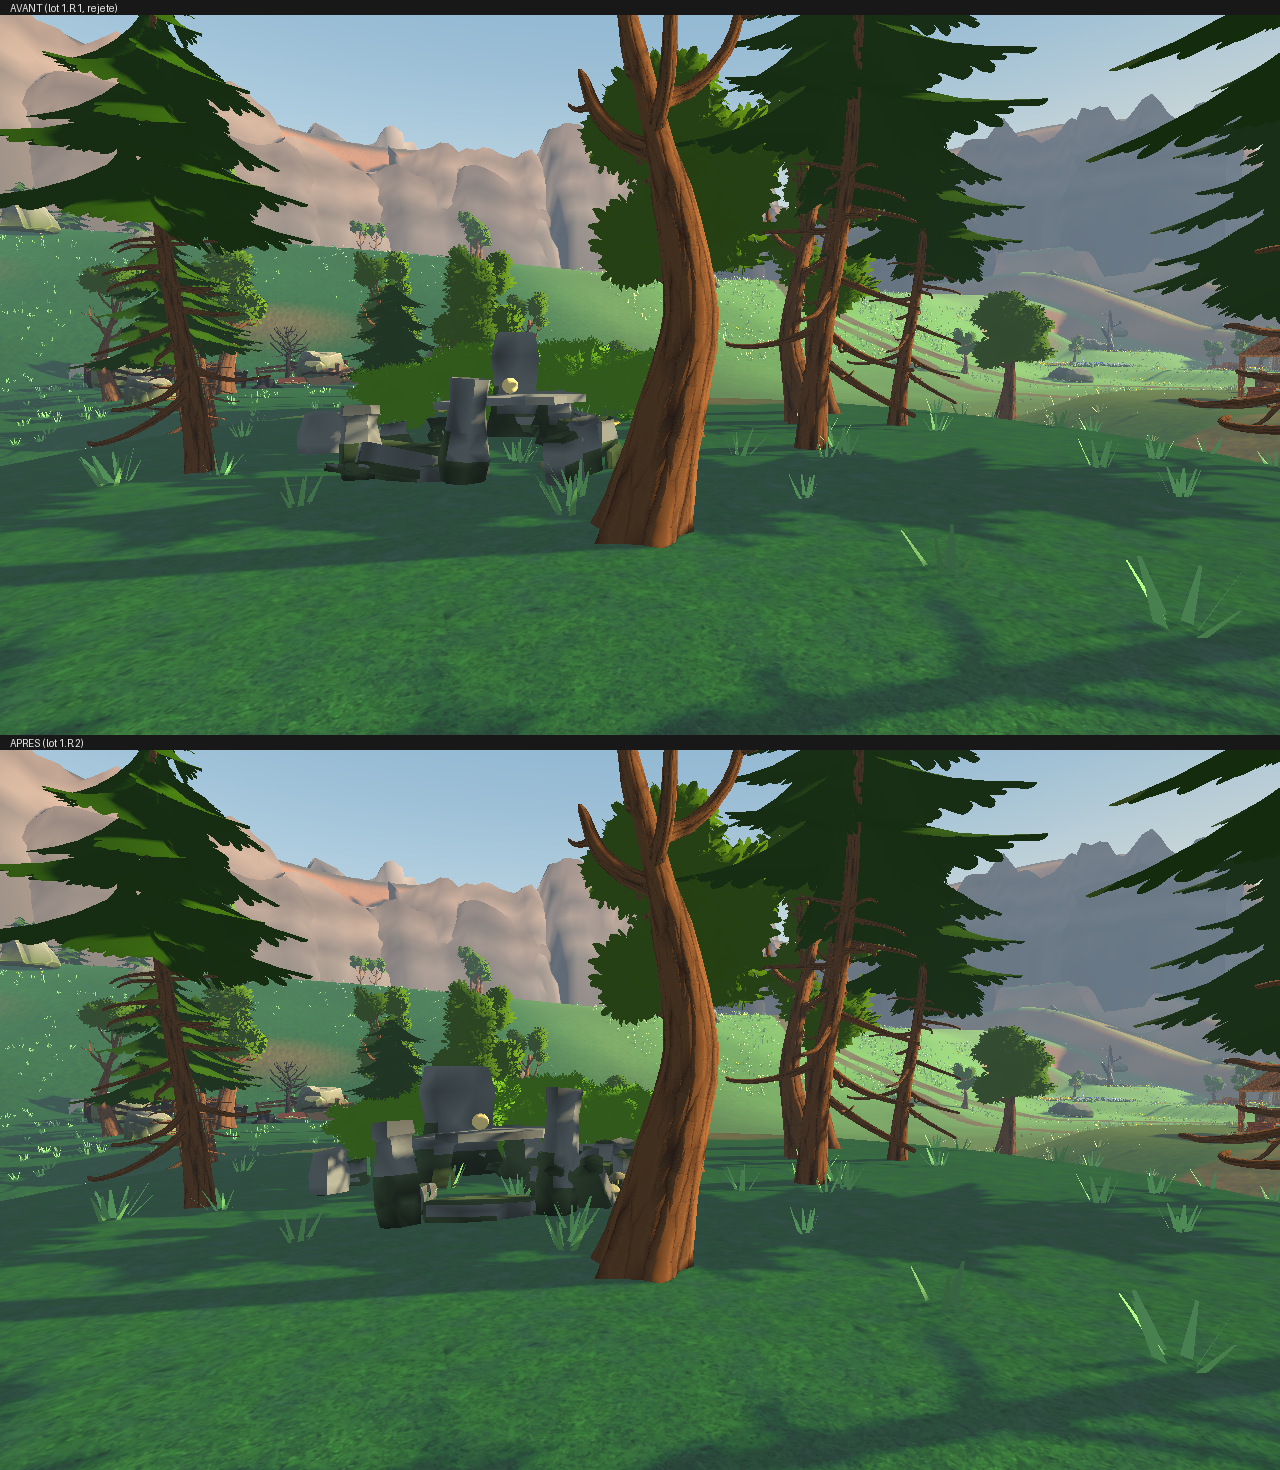
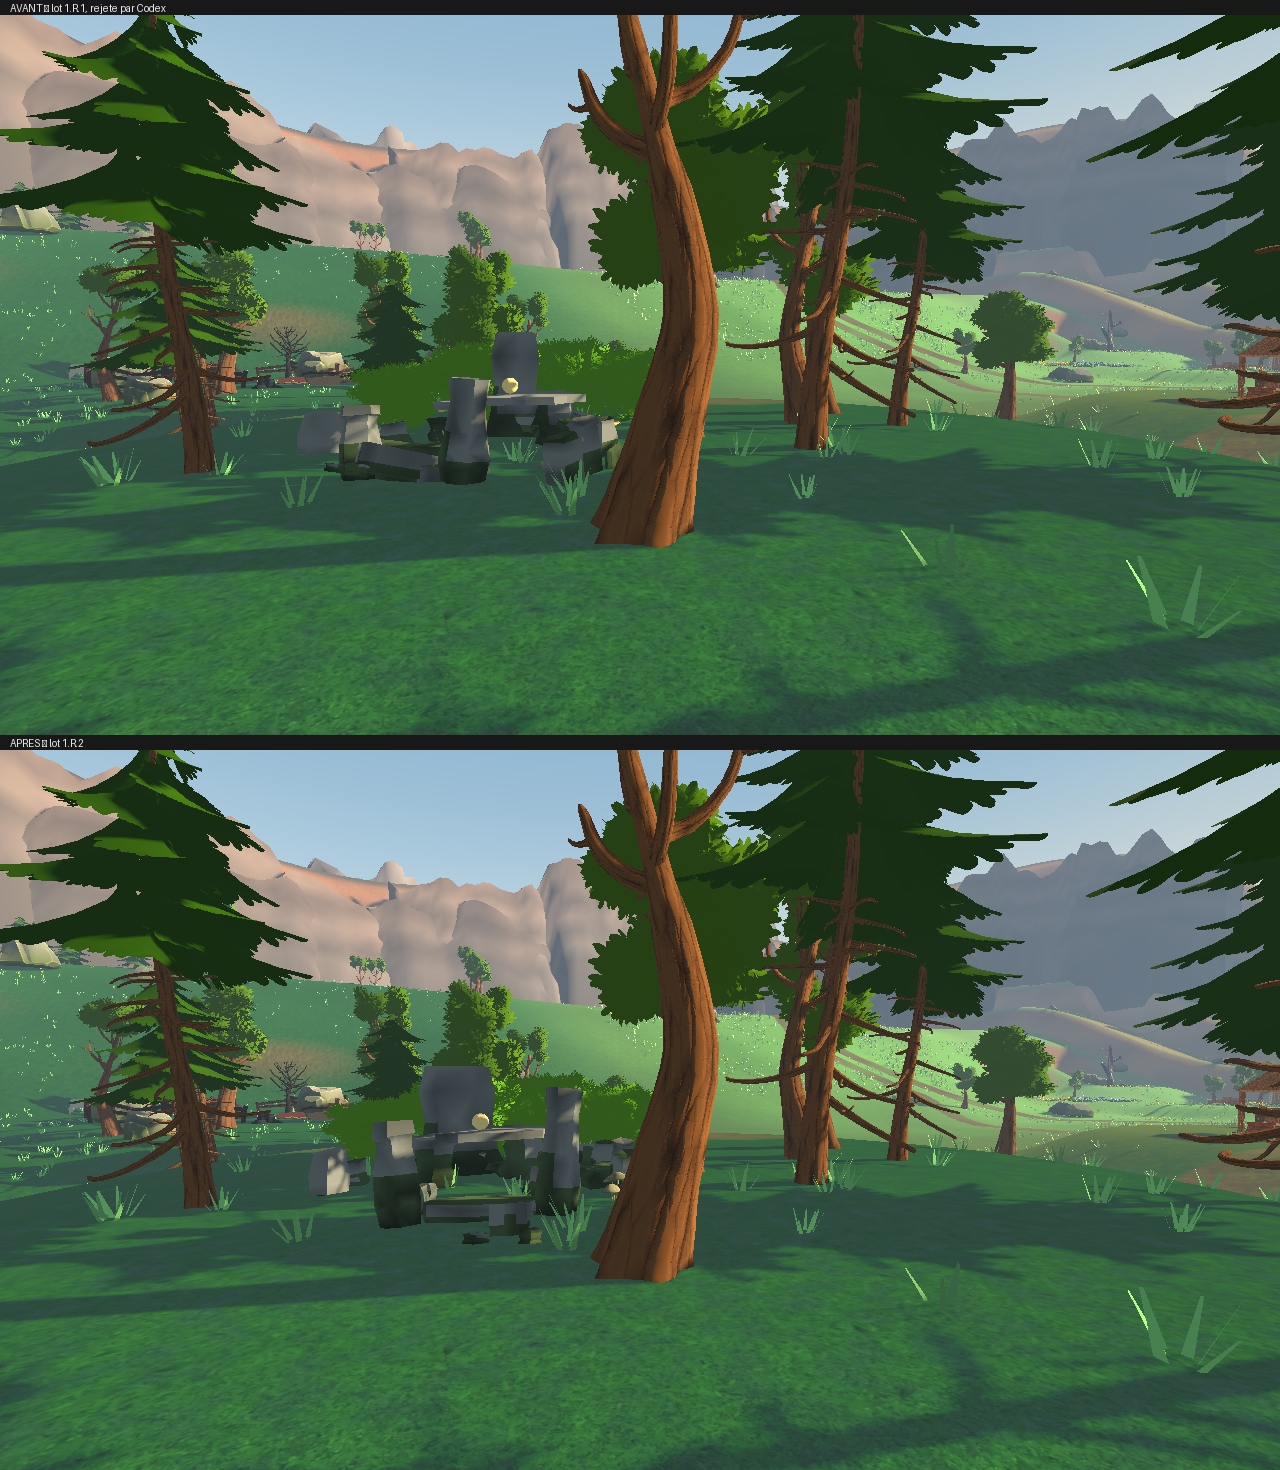
preuve(sanctuaire): sonde et R-D3 rejoues sur le lieu LIVRE, planche et rapport a jour
Le linteau a bouge apres les deux mesures precedentes : une mesure prise avant
le dernier changement ne prouve rien sur le lieu livre. Les deux sont donc
rejouees sur c00cc7b.

- sonde : PASS inchange — fenetre 1,31 m, capsule 100 pour cent aux deux sens ;
- R-D3 : PASS, pire paire 0,3983 (waterfall_cave) pour un seuil a 0,4912,
  soit 0,093 de marge sur l'exigence seuil moins 0,010 ;
- le rapport decrit ce qui est VISIBLE sur it4 en repondant aux trois
  exigences une par une, et designe lui-meme son point faible : l'axe reste le
  maillon tenu, parce que les bordures sont dans l'ombre du couvert.

diff --git a/evidence/world_v2/v2_3_b/lot1r2/sanctuaire/RAPPORT_SANCTUAIRE.md b/evidence/world_v2/v2_3_b/lot1r2/sanctuaire/RAPPORT_SANCTUAIRE.md
@@ -67,6 +67,11 @@ Le seuil masquait le cœur au lieu de le présenter.
    le sujet qu'il présentait. Il tombe au pied du montant ouest, x 593.
 7. *(après `it2`)* **La pierre couchée cesse de barrer la nef** et la borde à
    l'ouest ; le dallage passe à deux dalles.
+8. *(après `it3`)* **Le linteau passe DEVANT le seuil**, en travers de
+   l'approche. Quatrième position pour cette pièce, et la première qui sorte
+   du conflit au lieu d'arbitrer entre ses deux termes : à x 486 / y 440, soit
+   59 px sous le cœur, elle ne peut rien masquer, et elle rend au seuil la
+   barre qui le fait lire comme une porte.
 
 ## Preuves
 
@@ -75,8 +80,10 @@ Le seuil masquait le cœur au lieu de le présenter.
 | Sonde AVANT | `sondes/probe_AVANT_ROUGE.log` | **FAIL**, fenêtre 0,89 m |
 | Sonde APRÈS | `sondes/probe_APRES.log` | **PASS**, fenêtre **1,31 m** |
 | Capsule réelle, entrée puis sortie | idem, §2c (contrôle AJOUTÉ) | **100 %** / **100 %** |
-| R-D3 | `verdict_d3_sanctuaire.json` | **PASS**, pire paire 0,389 / seuil 0,4912 |
-| Vues gelées | `it3/` (+ `it1/`, `it2/` pour l'historique) | copie exacte des trois plans |
+| R-D3 | `verdict_d3_sanctuaire.json` | **PASS**, pire paire **0,3983** / seuil 0,4912 |
+| Vues gelées | **`it4/`** (+ `it1/`…`it3/`, l'historique des quatre passes) | copie exacte des trois plans |
+| Invisibilité depuis la route | `controle_route/` | aucune pierre visible |
+| Suites du dépôt | `tests/` | 11 + 5 réussis, 0 échoué |
 | Avant/après | `planche_avant_apres_joueur.png` | |
 
 ## Contrôles faits en plus, et ce qu'ils disent
@@ -98,10 +105,35 @@ saturés, et ce résidu est du sol et des troncs, pas de la maçonnerie. Le
 décalage de +0,45 m du rideau, qui n'était qu'un calcul de ligne de vue, est
 donc confirmé par une capture.
 
+## Ce qui est VISIBLE sur la vue joueur finale (`it4/forest_shrine_joueur.png`)
+
+Description, pas verdict — le verdict appartient à Codex et à Istvan.
+
+- **L'arbre ne sépare plus.** Le lieu s'étend de x 334 à 615 ; le tronc gelé
+  occupe 661-717. Il n'y a plus aucun chevauchement, et le tronc joue le
+  montant droit du cadre au lieu de couper le sujet en deux.
+- **Ouverture d'entrée** — VISIBLE : une barre de pierre claire en travers au
+  premier plan bas (le linteau), et deux pierres dressées de part et d'autre,
+  franchement inégales (1,65 m à gauche du cadre, 1,26 m à droite).
+- **Axe d'approche** — VISIBLE MAIS FAIBLE : la progression se lit par le
+  linteau, puis la marche, puis les deux bordures qui bordent la travée, puis
+  le cœur. Les bordures restent le maillon discret : basses, sombres, et sous
+  le couvert. C'est l'élément que je signale comme le moins concluant.
+- **Cœur rituel** — VISIBLE, et c'est l'élément le plus lisible des trois :
+  dalle horizontale claire, dossier vertical de 1,60 m de large derrière, et
+  l'offrande, seul point chaud de l'image.
+- **Les trois sont dans la même image**, et la travée entre les montants est
+  désormais dégagée : le cœur s'y voit de bout en bout.
+
 ## Ce qui reste NON VÉRIFIÉ
 
 - **Le verdict artistique.** Il appartient à Codex et à Istvan. Ce document
   décrit ce qui est visible, pas ce qui est réussi.
+- **La lisibilité de l'axe** est le point faible que je désigne moi-même :
+  les bordures dépassent enfin de l'herbe, mais elles restent dans l'ombre du
+  couvert et leur ligne est ténue. Si le verdict rouvre le lieu, c'est là
+  qu'il faut porter la passe suivante — et probablement par la VALEUR (ce qui
+  se lit ici, ce sont les surfaces éclairées) plutôt que par la forme.
 - **La franchissabilité humaine du seuil** : aucune manette, aucun écran ici.
 - **`tools/validate_fast.sh`** n'a pas été rejoué en entier sur cet arbre : il
   appartient à l'intégration du lead, qui seule voit les trois voies réunies.

diff --git a/evidence/world_v2/v2_3_b/lot1r2/sanctuaire/silhouettes/LISEZ_MOI.md b/evidence/world_v2/v2_3_b/lot1r2/sanctuaire/silhouettes/LISEZ_MOI.md
@@ -10,7 +10,9 @@ LOCAL — jamais le chemin par défaut, qui écraserait le verdict canonique du
 lead.
 
 - Seuils employés : ceux qui sont gelés, 0,4931 / 0,4912 / 0,5458 (30/80/160 m).
-- Verdict : **PASS**, `signalees: 0`, `repo_dirty: false`, commit `4cb18d9`.
-- Pire paire du sanctuaire : **IoU 0,389** contre `stone_bridge`. Le seuil le
-  plus bas vaut 0,4912 ; l'exigence du lot est « seuil − 0,010 », soit 0,4812.
-  Marge réelle : **0,092**.
+- Verdict : **PASS**, `signalees: 0`, `repo_dirty: false`, commit `c00cc7b`.
+- Pire paire du sanctuaire : **IoU 0,3983** contre `waterfall_cave`. Le seuil
+  le plus bas vaut 0,4912 ; l'exigence du lot est « seuil − 0,010 », soit
+  0,4812. Marge réelle : **0,093**.
+- Rejoué une seconde fois après le déplacement du linteau, sur `c00cc7b` : la
+  silhouette avait changé, le verdict ne pouvait pas rester celui d'avant.

diff --git a/evidence/world_v2/v2_3_b/lot1r2/sanctuaire/sondes/LISEZ_MOI.md b/evidence/world_v2/v2_3_b/lot1r2/sanctuaire/sondes/LISEZ_MOI.md
@@ -15,7 +15,9 @@ Les autres mesures sont vertes et servent de repère : plafond d'identité
 
 ## `probe_APRES.log` — la même sonde, après la corrective
 
-Rejouée sur `b260ee8`, arbre propre. Même script, mêmes seuils : **aucun
+Rejouée sur `c00cc7b`, arbre propre — une seconde fois, après le
+déplacement du linteau : une mesure prise avant le dernier changement ne
+prouverait rien sur le lieu livré. Même script, mêmes seuils : **aucun
 critère n'a été déplacé**, et deux ont été AJOUTÉS (§2c, le balayage de la
 vraie capsule dans les deux sens de traversée).
 
